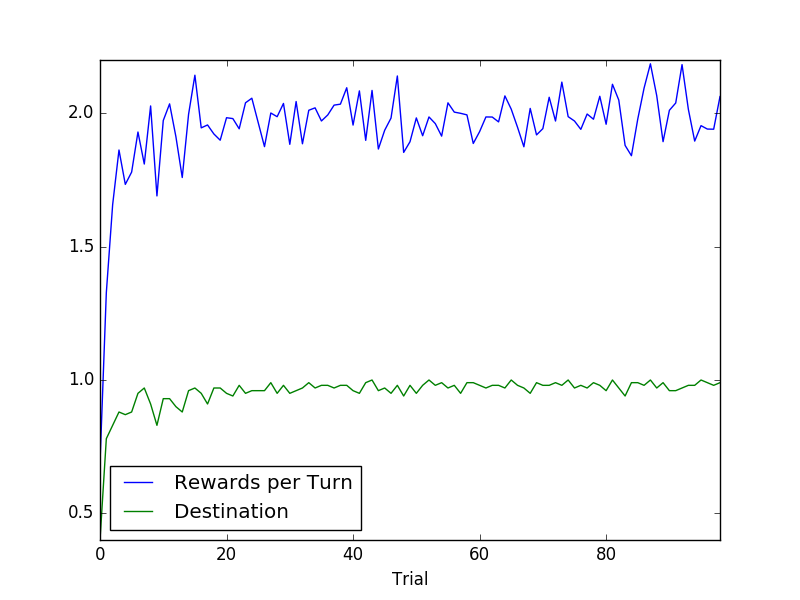
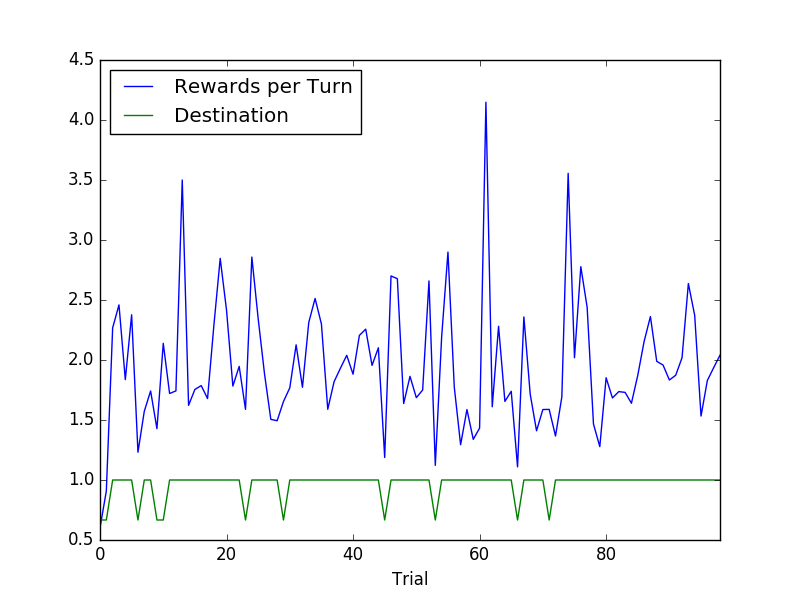
removed the deadline binning from the state

diff --git a/smartcab/agent.py b/smartcab/agent.py
@@ -84,7 +84,7 @@ class LearningAgent(Agent):
 
         # Get the new state for estimating Q
         newtokey = self.env.sense(self).values()
-        newtokey.extend([self.planner.next_waypoint(), max(min(int(math.sqrt(self.env.get_deadline(self))), 4), 1)])
+        newtokey.append(self.planner.next_waypoint())
         newstate = tuple(newtokey)
 
         # Check if the previous state was already in the policies, otherwise initialize it
@@ -111,12 +111,9 @@ class LearningAgent(Agent):
         inputs = self.env.sense(self)
         deadline = self.env.get_deadline(self)
 
-        # Bin up the deadlines using square root, to a maximum of 4 and a minimum of 1
-        bindeadline = max(min(int(math.sqrt(deadline)), 4), 1)
-
         # Concatenate the separate inputs as the state
         tokey = inputs.values()
-        tokey.extend([self.next_waypoint, bindeadline])
+        tokey.append(self.next_waypoint)
         self.state = tuple(tokey)
 
         
@@ -152,7 +149,7 @@ def run():
     # NOTE: You can set enforce_deadline=False while debugging to allow longer trials
 
     # Now simulate it
-    sim = Simulator(e, update_delay=0.001, display=False)  # create simulator (uses pygame when display=True, if available)
+    sim = Simulator(e, update_delay=0.0001, display=False)  # create simulator (uses pygame when display=True, if available)
     # NOTE: To speed up simulation, reduce update_delay and/or set display=False
 
     sim.run(n_trials=100)  # run for a specified number of trials
@@ -171,7 +168,7 @@ def run():
 
 if __name__ == '__main__':
     # Run multiple trials for a nice smooth graphic
-    for i in range(100):
+    for i in range(3):
         outdf = run()
         try:
             sumdf = sumdf.append(outdf, ignore_index=True)
